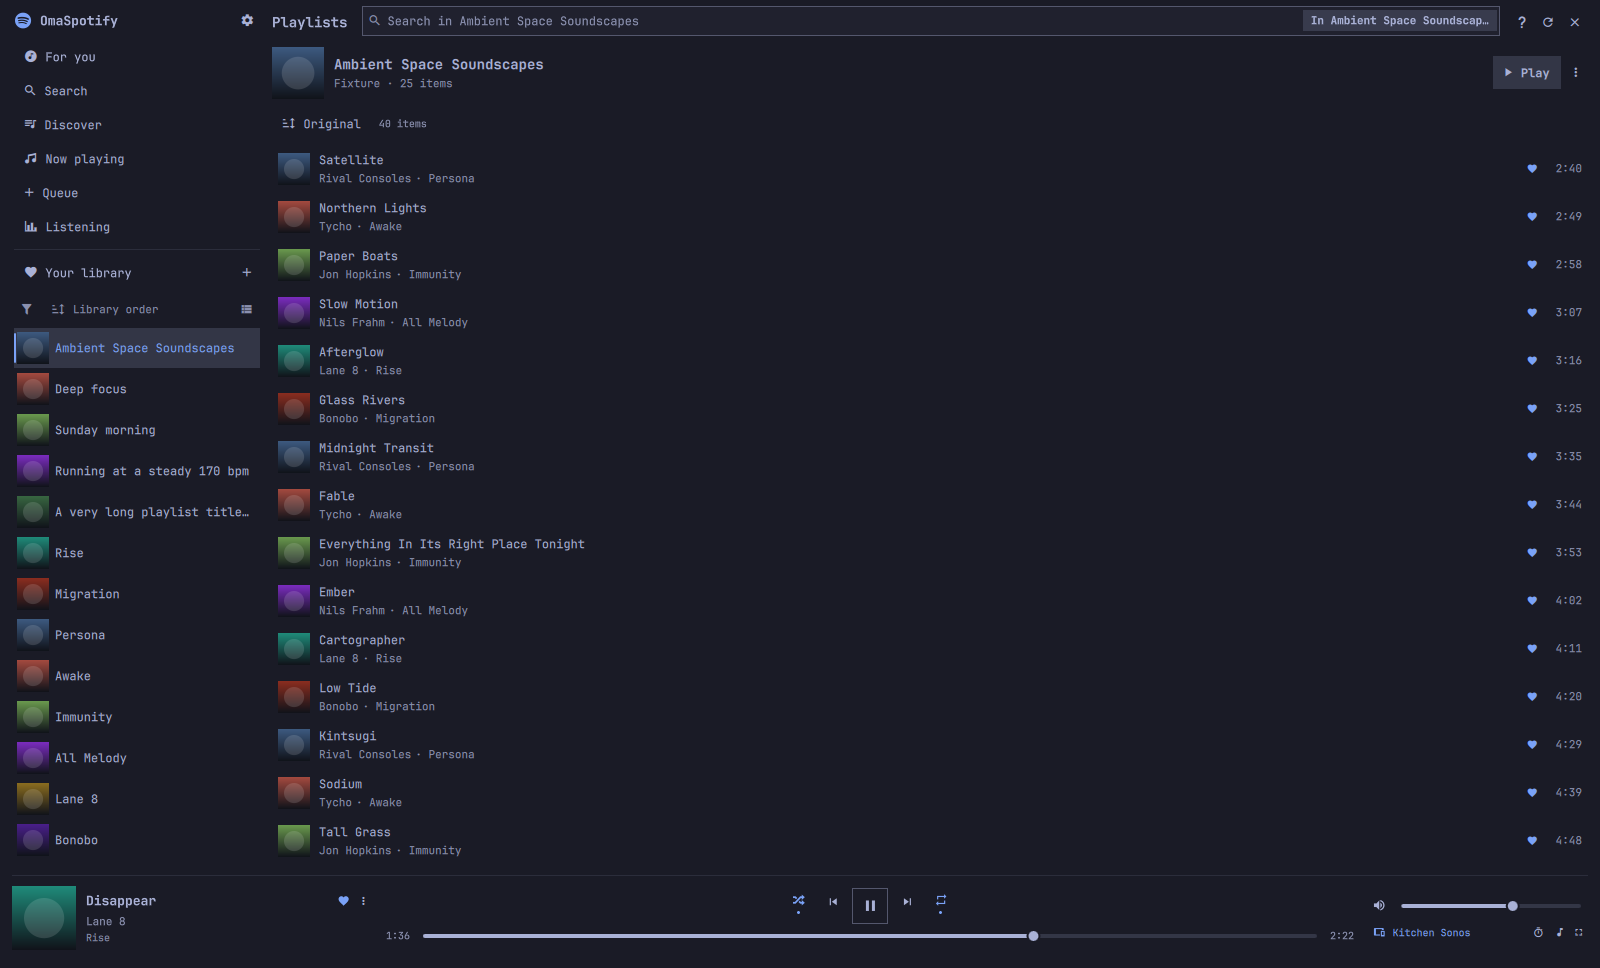
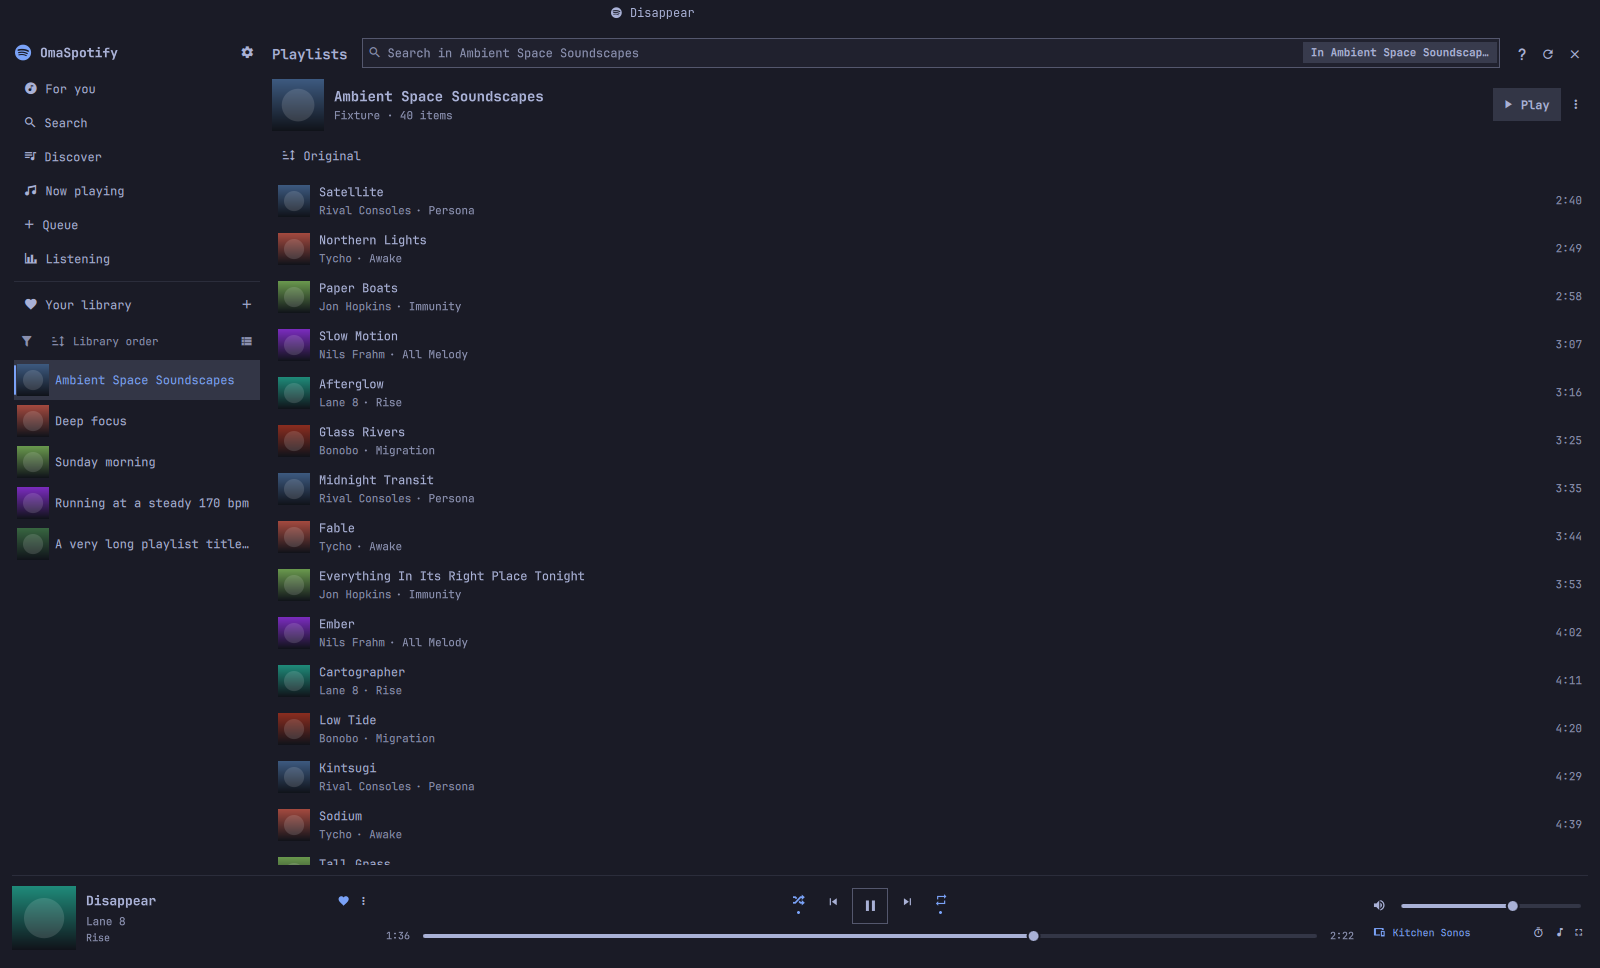
Record the live review in the docs
The changelog and technical notes cover what running on a real desktop turned
up, and the hint and playlist screenshots are retaken. An empty list no longer
shows a sort row above its empty state.

diff --git a/MediaCollection.qml b/MediaCollection.qml
@@ -21,6 +21,8 @@ Item {
   property bool showSort: false
   // Off where a header above already says how many there are.
   property bool showCount: true
+  // An empty list has nothing to sort, and "0 items" above "nothing here" says it twice.
+  readonly property bool sortShown: showSort && sourceItems.length > 0
   property bool showQueue: true
   property bool showPlaylist: true
   property bool showSave: true
@@ -353,7 +355,7 @@ Item {
       id: tools
       width: parent.width
       height: visible ? sortButton.implicitHeight : 0
-      visible: root.showSort
+      visible: root.sortShown
       spacing: Style.space(7)
 
       Button {

diff --git a/Panel.qml b/Panel.qml
@@ -999,7 +999,7 @@ Item {
     var collections = pageCollections()
     for (var c = 0; c < collections.length; c++) {
       var collection = collections[c]
-      if (collections.length === 1 && collection.showSort) actions.push("sort")
+      if (collections.length === 1 && collection.sortShown) actions.push("sort")
       actions.push(collection.keyboardListId || "list")
       if (collections.length === 1) {
         if (collection.hasMore) actions.push("more")

diff --git a/CHANGELOG.md b/CHANGELOG.md
@@ -1,8 +1,37 @@
 ## 2.3.0 — Full review
 
 A complete review of the plugin, backend, install scripts and CI, with fixes
-verified against tests and an isolated preview. Not yet exercised against a real
-Spotify session.
+verified against tests and an isolated preview, then run on a real desktop with a
+real account, three monitors and Tunemarchy in the bar.
+
+**Found by running it for real**
+
+- A long title in the bar no longer runs under the clock or the next section. The
+  bar lays its sections out without looking at each other, so the entry now measures
+  the room left and shortens its label to fit, ending in an ellipsis.
+- One Spotify icon, not two. With Tunemarchy in the bar and connected, this plugin's
+  own entry steps aside.
+- Shortcut hints no longer switch on at any modifier and stay on. Hold Ctrl, Shift or
+  Alt and a small keycap appears beside each control; let go and they leave. Nothing
+  is washed in colour, no keycap sits on top of an icon, and the arrows on
+  neighbouring rows are gone. `Ctrl+H` and the header's Hide hints button went with
+  them.
+- The mini-player shortcut works again. It returned "unavailable" on Omarchy 4.5,
+  which gives plugins no way to open a bar popup; it now opens its own, or
+  Tunemarchy's when that is the bar player.
+- Nearby speakers are found again. Every lookup built a URL with a query, and the
+  request function refused any path containing one, so discovery, activation and
+  Sonos control could never succeed.
+- Pinned items survive closing the player. Every close saved the player's own state
+  over the whole session.
+- Covers come back by themselves if the kept copies on disk go missing, instead of
+  showing placeholders until a restart.
+- An open playlist shows how many songs it has now, not how many it had when the
+  library was last read.
+- The sign-in page no longer shows a connection error after a successful sign-in.
+- A fresh install with no client ID no longer shows a disabled "Working" button.
+- Running the tests no longer empties the real player's artwork: four fixtures ran
+  the real service against the real cache directory.
 
 **Interface**
 
@@ -48,9 +77,29 @@ Spotify session.
 - An expired Soloist build or missing key is now explained rather than retried.
 - Playback startup errors were being read from the wrong directory and never shown.
 
+- A request the backend cannot read is refused under its own id, so the player no
+  longer waits for ever on it. One unanswered command no longer ends playback. Every
+  way out of the backend stops Soloist cleanly first, and a second backend can no
+  longer remove a running one's files.
+- Playlists made or converted here are still there after a restart. Top lists that
+  failed to load are asked for again, and a playlist that has changed moves in
+  Recents without waiting for a restart.
+- An unreachable keyring is no longer taken for a missing Soloist key, a build in its
+  renewal window is no longer downloaded again on every start, and a wait for the
+  install lock comes out of the download's time.
+- Removed songs no longer appear as "Untitled" rows, and local files are no longer
+  sent to Spotify.
+- Less idle work: a queue waiting out a rate limit no longer wakes the shell four
+  times a second, a poll with nothing new no longer rebuilds the device and artist
+  lists, and artwork is first listed when something wants it.
+
 **Security**
 
-- Signing in with a different account keeps each account's listening record apart.
+- Signing in with a different account keeps each account's listening record apart,
+  including when the new account's data arrives before its profile.
+- Signing out and uninstalling no longer delete the cache of a spotifyd you installed
+  yourself.
+- Soloist's own error text is logged with anything shaped like a key left out.
 - Sign-out now removes searches, pins and artwork as well.
 - Discovery rejects receiver paths with query strings and the cloud metadata address,
   and a slow receiver can no longer hang the player.

diff --git a/docs/TECHNICAL.md b/docs/TECHNICAL.md
@@ -22,7 +22,10 @@ Local audio defaults to Spotify Soloist, supervised as a child of the Rust
 `omaspotify-backend --soloist` adapter in `omaspotify-soloist.service`. The adapter
 translates Soloist's loopback WebSocket events into the existing private Unix
 socket and MPRIS interfaces. Commands are serialized and acknowledged, with bounded
-frames and timeouts. Position uses a monotonic clock and publishes once a second.
+frames and timeouts. One unanswered command is reported and survived; a second in a
+row ends the adapter so systemd can restart it. A lock taken before anything starts
+keeps a second adapter from disturbing a running one. Position uses a monotonic
+clock and publishes once a second.
 Playlist offsets that Soloist cannot express locally fall back to the Spotify
 Web API, preserving the chosen context and song. Volume uses Soloist's linear scale.
 
@@ -84,6 +87,25 @@ clients you configure to use that same developer app. On a
 requests doubles and stays wide for the rest of the run. Every request logs where its time
 went — queueing, token refresh, or the network — which is what makes a slow call
 diagnosable at all. See `docs/LIBRARY-DATA.md` for the measurements.
+
+## The bar entry
+
+Omarchy's bar places its left, centre and right sections independently, so nothing
+stops a wide widget in one from being drawn over the next. `BarRoom.qml` measures
+the room between this entry's section and its neighbours and the entry never grows
+past it: the label shortens, and below a few letters gives way to the icon. Plugins
+are given no interface for this, so it reads the bar's own items. If their structure
+changes it finds nothing and steps aside, and the user's width cap applies alone.
+
+While Tunemarchy is in the same bar and holding its connection, the entry hides
+itself, and the mini-player shortcut opens Tunemarchy's panel. The shell offers a
+plugin that is both a panel and a bar widget no way to open its bar popup, so the
+shortcut opens this entry's popup directly through the surfaces the service keeps.
+
+Shortcut hints follow the modifier keys themselves. Only a modifier key seen going
+down counts as held, so a chord sent by a tool that sets modifiers without a key
+event, or a release that never arrives, cannot leave hints on. They appear after
+300 ms, and a second key before then cancels them as a chord being typed.
 
 ## Runtime requirements
 
